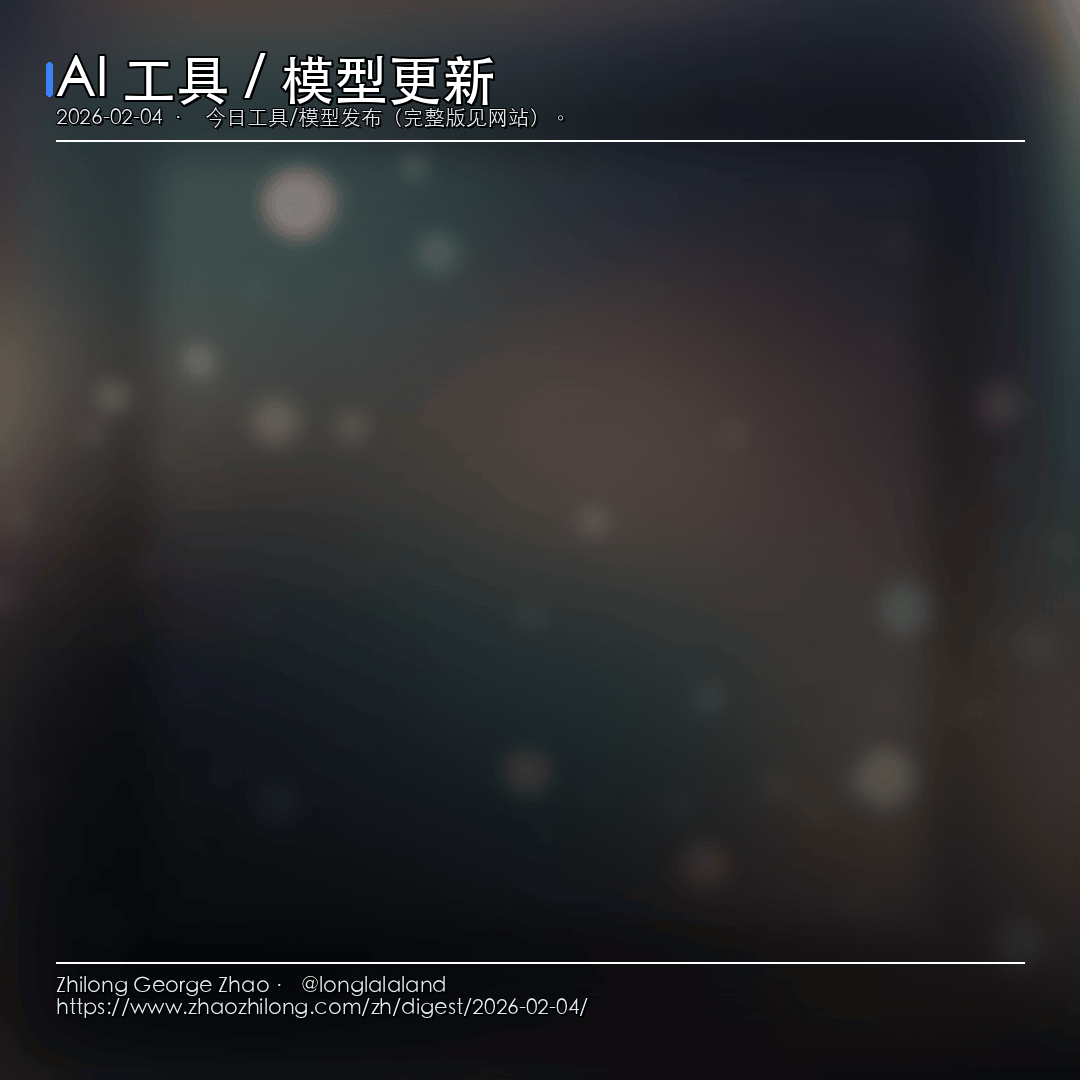
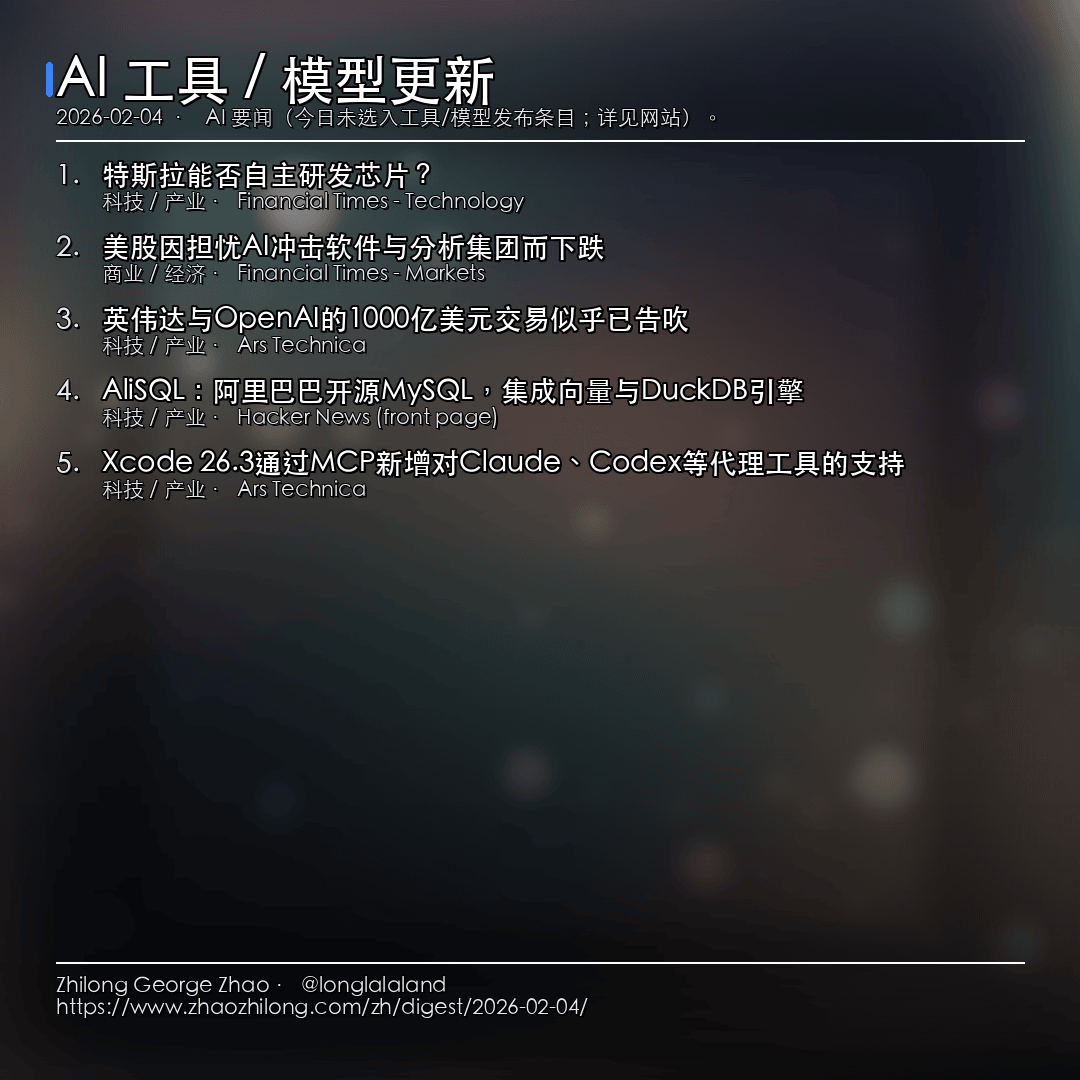
fix: prevent empty AI digest cards

Changed region(s): [[0.0306, 0.1528, 0.8556, 0.4583], [0.1833, 0.0917, 0.6417, 0.1222]]

diff --git a/_digests_zh/2026-02-04.md b/_digests_zh/2026-02-04.md
@@ -11,11 +11,11 @@ page_class: digest-page
 <div class="digest-hero">
   <div class="digest-hero-grid">
     <figure class="digest-hero-card">
-      <a href="/assets/img/digests/2026-02-04-zh.png?v=80576b6"><picture><source type="image/webp" srcset="/assets/img/digests/2026-02-04-zh.webp?v=80576b6"><img src="/assets/img/digests/2026-02-04-zh.png?v=80576b6" alt="每日简报 - 2026-02-04 — 新闻" loading="lazy"></picture></a>
+      <a href="/assets/img/digests/2026-02-04-zh.png?v=84cde80"><picture><source type="image/webp" srcset="/assets/img/digests/2026-02-04-zh.webp?v=84cde80"><img src="/assets/img/digests/2026-02-04-zh.png?v=84cde80" alt="每日简报 - 2026-02-04 — 新闻" loading="lazy"></picture></a>
       <figcaption>新闻</figcaption>
     </figure>
     <figure class="digest-hero-card">
-      <a href="/assets/img/digests/2026-02-04-ai-zh.png?v=80576b6"><picture><source type="image/webp" srcset="/assets/img/digests/2026-02-04-ai-zh.webp?v=80576b6"><img src="/assets/img/digests/2026-02-04-ai-zh.png?v=80576b6" alt="每日简报 - 2026-02-04 — AI 工具" loading="lazy"></picture></a>
+      <a href="/assets/img/digests/2026-02-04-ai-zh.png?v=84cde80"><picture><source type="image/webp" srcset="/assets/img/digests/2026-02-04-ai-zh.webp?v=84cde80"><img src="/assets/img/digests/2026-02-04-ai-zh.png?v=84cde80" alt="每日简报 - 2026-02-04 — AI 工具" loading="lazy"></picture></a>
       <figcaption>AI 工具</figcaption>
     </figure>
   </div>

diff --git a/_digests/2026-02-04.md b/_digests/2026-02-04.md
@@ -11,11 +11,11 @@ page_class: digest-page
 <div class="digest-hero">
   <div class="digest-hero-grid">
     <figure class="digest-hero-card">
-      <a href="/assets/img/digests/2026-02-04-en.png?v=80576b6"><picture><source type="image/webp" srcset="/assets/img/digests/2026-02-04-en.webp?v=80576b6"><img src="/assets/img/digests/2026-02-04-en.png?v=80576b6" alt="Daily Digest - 2026-02-04 — News" loading="lazy"></picture></a>
+      <a href="/assets/img/digests/2026-02-04-en.png?v=84cde80"><picture><source type="image/webp" srcset="/assets/img/digests/2026-02-04-en.webp?v=84cde80"><img src="/assets/img/digests/2026-02-04-en.png?v=84cde80" alt="Daily Digest - 2026-02-04 — News" loading="lazy"></picture></a>
       <figcaption>News</figcaption>
     </figure>
     <figure class="digest-hero-card">
-      <a href="/assets/img/digests/2026-02-04-ai-en.png?v=80576b6"><picture><source type="image/webp" srcset="/assets/img/digests/2026-02-04-ai-en.webp?v=80576b6"><img src="/assets/img/digests/2026-02-04-ai-en.png?v=80576b6" alt="Daily Digest - 2026-02-04 — AI tools" loading="lazy"></picture></a>
+      <a href="/assets/img/digests/2026-02-04-ai-en.png?v=84cde80"><picture><source type="image/webp" srcset="/assets/img/digests/2026-02-04-ai-en.webp?v=84cde80"><img src="/assets/img/digests/2026-02-04-ai-en.png?v=84cde80" alt="Daily Digest - 2026-02-04 — AI tools" loading="lazy"></picture></a>
       <figcaption>AI tools</figcaption>
     </figure>
   </div>
